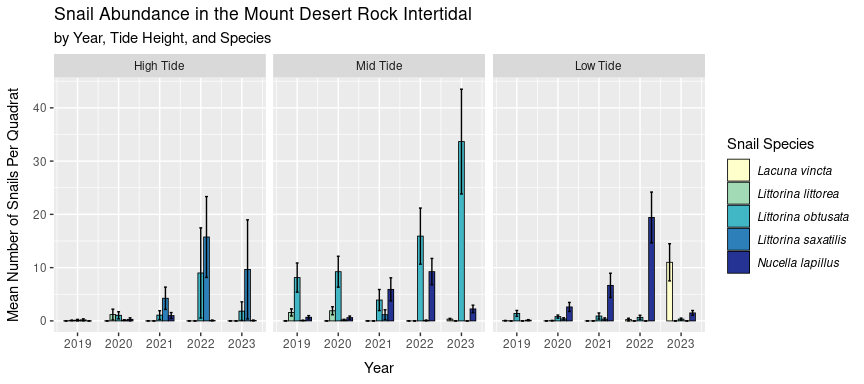
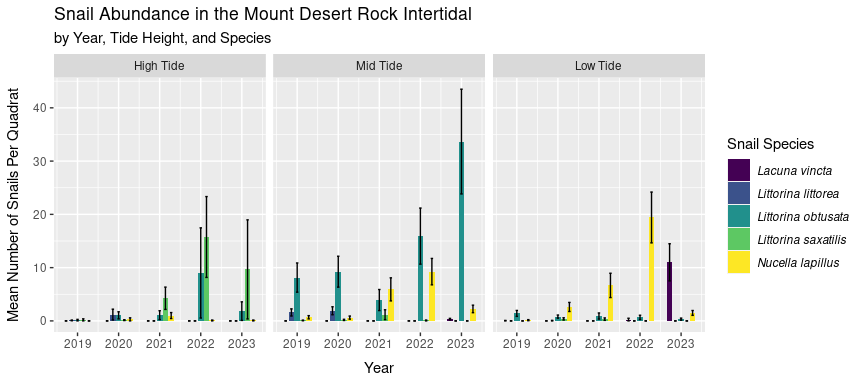
Change colors of snail graph to viridis

diff --git a/analysis/tidymdrdata.md b/analysis/tidymdrdata.md
@@ -118,304 +118,156 @@ HL00_MDR_NeCSA_2018 <- read_excel("/cloud/project/data/2018_full_NeCSA.xlsx", sh
   mutate(tide_height = "low",
          year = "2018",
          quadrat = 0)
-```
 
-    ## New names:
-    ## • `` -> `...3`
-
-``` r
 HL03_MDR_NeCSA_2018 <- read_excel("/cloud/project/data/2018_full_NeCSA.xlsx", sheet = "West HT Low", range = "D4:F49") %>%
   mutate(tide_height = "low",
          year = "2018",
          quadrat = 3)
-```
 
-    ## New names:
-    ## • `` -> `...3`
-
-``` r
 HL06_MDR_NeCSA_2018 <- read_excel("/cloud/project/data/2018_full_NeCSA.xlsx", sheet = "West HT Low", range = "G4:I49") %>%
   mutate(tide_height = "low",
          year = "2018",
          quadrat = 6)
-```
 
-    ## New names:
-    ## • `` -> `...3`
-
-``` r
 HL09_MDR_NeCSA_2018 <- read_excel("/cloud/project/data/2018_full_NeCSA.xlsx", sheet = "West HT Low", range = "J4:L49") %>%
   mutate(tide_height = "low",
          year = "2018",
          quadrat = 9)
-```
 
-    ## New names:
-    ## • `` -> `...3`
-
-``` r
 HL12_MDR_NeCSA_2018 <- read_excel("/cloud/project/data/2018_full_NeCSA.xlsx", sheet = "West HT Low", range = "M4:O49") %>%
   mutate(tide_height = "low",
          year = "2018",
          quadrat = 12)
-```
 
-    ## New names:
-    ## • `` -> `...3`
-
-``` r
 HL15_MDR_NeCSA_2018 <- read_excel("/cloud/project/data/2018_full_NeCSA.xlsx", sheet = "West HT Low", range = "P4:R49") %>%
   mutate(tide_height = "low",
          year = "2018",
          quadrat = 15)
-```
 
-    ## New names:
-    ## • `` -> `...3`
-
-``` r
 HL18_MDR_NeCSA_2018 <- read_excel("/cloud/project/data/2018_full_NeCSA.xlsx", sheet = "West HT Low", range = "S4:U49") %>%
   mutate(tide_height = "low",
          year = "2018",
          quadrat = 18)
-```
 
-    ## New names:
-    ## • `` -> `...3`
-
-``` r
 HL21_MDR_NeCSA_2018 <- read_excel("/cloud/project/data/2018_full_NeCSA.xlsx", sheet = "West HT Low", range = "V4:X49") %>%
   mutate(tide_height = "low",
          year = "2018",
          quadrat = 21)
-```
 
-    ## New names:
-    ## • `` -> `...3`
-
-``` r
 HL24_MDR_NeCSA_2018 <- read_excel("/cloud/project/data/2018_full_NeCSA.xlsx", sheet = "West HT Low", range = "Y4:AA49") %>%
   mutate(tide_height = "low",
          year = "2018",
          quadrat = 24)
-```
 
-    ## New names:
-    ## • `` -> `...3`
-
-``` r
 HL27_MDR_NeCSA_2018 <- read_excel("/cloud/project/data/2018_full_NeCSA.xlsx", sheet = "West HT Low", range = "AB4:AD49") %>%
   mutate(tide_height = "low",
          year = "2018",
          quadrat = 27)
-```
 
-    ## New names:
-    ## • `` -> `...3`
-
-``` r
 # mid quadrats
 
 HM00_MDR_NeCSA_2018 <- read_excel("/cloud/project/data/2018_full_NeCSA.xlsx", sheet = "West HT Mid", range = "A4:C49") %>%
   mutate(tide_height = "mid",
          year = "2018",
          quadrat = 0)
-```
 
-    ## New names:
-    ## • `` -> `...3`
-
-``` r
 HM03_MDR_NeCSA_2018 <- read_excel("/cloud/project/data/2018_full_NeCSA.xlsx", sheet = "West HT Mid", range = "D4:F49") %>%
   mutate(tide_height = "mid",
          year = "2018",
          quadrat = 3)
-```
 
-    ## New names:
-    ## • `` -> `...3`
-
-``` r
 HM06_MDR_NeCSA_2018 <- read_excel("/cloud/project/data/2018_full_NeCSA.xlsx", sheet = "West HT Mid", range = "G4:I49") %>%
   mutate(tide_height = "mid",
          year = "2018",
          quadrat = 6)
-```
 
-    ## New names:
-    ## • `` -> `...3`
-
-``` r
 HM09_MDR_NeCSA_2018 <- read_excel("/cloud/project/data/2018_full_NeCSA.xlsx", sheet = "West HT Mid", range = "J4:L49") %>%
   mutate(tide_height = "mid",
          year = "2018",
          quadrat = 9)
-```
 
-    ## New names:
-    ## • `` -> `...3`
-
-``` r
 HM12_MDR_NeCSA_2018 <- read_excel("/cloud/project/data/2018_full_NeCSA.xlsx", sheet = "West HT Mid", range = "M4:O49") %>%
   mutate(tide_height = "mid",
          year = "2018",
          quadrat = 12)
-```
 
-    ## New names:
-    ## • `` -> `...3`
-
-``` r
 HM15_MDR_NeCSA_2018 <- read_excel("/cloud/project/data/2018_full_NeCSA.xlsx", sheet = "West HT Mid", range = "P4:R49") %>%
   mutate(tide_height = "mid",
          year = "2018",
          quadrat = 15)
-```
 
-    ## New names:
-    ## • `` -> `...3`
-
-``` r
 HM18_MDR_NeCSA_2018 <- read_excel("/cloud/project/data/2018_full_NeCSA.xlsx", sheet = "West HT Mid", range = "S4:U49") %>%
   mutate(tide_height = "mid",
          year = "2018",
          quadrat = 18)
-```
 
-    ## New names:
-    ## • `` -> `...3`
-
-``` r
 HM21_MDR_NeCSA_2018 <- read_excel("/cloud/project/data/2018_full_NeCSA.xlsx", sheet = "West HT Mid", range = "V4:X49") %>%
   mutate(tide_height = "mid",
          year = "2018",
          quadrat = 21)
-```
 
-    ## New names:
-    ## • `` -> `...3`
-
-``` r
 HM24_MDR_NeCSA_2018 <- read_excel("/cloud/project/data/2018_full_NeCSA.xlsx", sheet = "West HT Mid", range = "Y4:AA49") %>%
   mutate(tide_height = "mid",
          year = "2018",
          quadrat = 24)
-```
 
-    ## New names:
-    ## • `` -> `...3`
-
-``` r
 HM27_MDR_NeCSA_2018 <- read_excel("/cloud/project/data/2018_full_NeCSA.xlsx", sheet = "West HT Mid", range = "AB4:AD49") %>%
   mutate(tide_height = "mid",
          year = "2018",
          quadrat = 27)
-```
 
-    ## New names:
-    ## • `` -> `...3`
-
-``` r
 # high quadrats
 
 HH00_MDR_NeCSA_2018 <- read_excel("/cloud/project/data/2018_full_NeCSA.xlsx", sheet = "West HT High", range = "A4:C49") %>%
   mutate(tide_height = "high",
          year = "2018",
          quadrat = 0)
-```
 
-    ## New names:
-    ## • `` -> `...3`
-
-``` r
 HH03_MDR_NeCSA_2018 <- read_excel("/cloud/project/data/2018_full_NeCSA.xlsx", sheet = "West HT High", range = "D4:F49") %>%
   mutate(tide_height = "high",
          year = "2018",
          quadrat = 3)
-```
 
-    ## New names:
-    ## • `` -> `...3`
-
-``` r
 HH06_MDR_NeCSA_2018 <- read_excel("/cloud/project/data/2018_full_NeCSA.xlsx", sheet = "West HT High", range = "G4:I49") %>%
   mutate(tide_height = "high",
          year = "2018",
          quadrat = 6)
-```
 
-    ## New names:
-    ## • `` -> `...3`
-
-``` r
 HH09_MDR_NeCSA_2018 <- read_excel("/cloud/project/data/2018_full_NeCSA.xlsx", sheet = "West HT High", range = "J4:L49") %>%
   mutate(tide_height = "high",
          year = "2018",
          quadrat = 9)
-```
 
-    ## New names:
-    ## • `` -> `...3`
-
-``` r
 HH12_MDR_NeCSA_2018 <- read_excel("/cloud/project/data/2018_full_NeCSA.xlsx", sheet = "West HT High", range = "M4:O49") %>%
   mutate(tide_height = "high",
          year = "2018",
          quadrat = 12)
-```
 
-    ## New names:
-    ## • `` -> `...3`
-
-``` r
 HH15_MDR_NeCSA_2018 <- read_excel("/cloud/project/data/2018_full_NeCSA.xlsx", sheet = "West HT High", range = "P4:R49") %>%
   mutate(tide_height = "high",
          year = "2018",
          quadrat = 15)
-```
 
-    ## New names:
-    ## • `` -> `...3`
-
-``` r
 HH18_MDR_NeCSA_2018 <- read_excel("/cloud/project/data/2018_full_NeCSA.xlsx", sheet = "West HT High", range = "S4:U49") %>%
   mutate(tide_height = "high",
          year = "2018",
          quadrat = 18)
-```
 
-    ## New names:
-    ## • `` -> `...3`
-
-``` r
 HH21_MDR_NeCSA_2018 <- read_excel("/cloud/project/data/2018_full_NeCSA.xlsx", sheet = "West HT High", range = "V4:X49") %>%
   mutate(tide_height = "high",
          year = "2018",
          quadrat = 21)
-```
 
-    ## New names:
-    ## • `` -> `...3`
-
-``` r
 HH24_MDR_NeCSA_2018 <- read_excel("/cloud/project/data/2018_full_NeCSA.xlsx", sheet = "West HT High", range = "Y4:AA49") %>%
   mutate(tide_height = "high",
          year = "2018",
          quadrat = 24)
-```
 
-    ## New names:
-    ## • `` -> `...3`
-
-``` r
 HH27_MDR_NeCSA_2018 <- read_excel("/cloud/project/data/2018_full_NeCSA.xlsx", sheet = "West HT High", range = "AB4:AD49") %>%
   mutate(tide_height = "high",
          year = "2018",
          quadrat = 27)
 ```
-
-    ## New names:
-    ## • `` -> `...3`
 
 ``` r
 horizontal_MDR_NeCSA_2019  <- read_excel("/cloud/project/data/2019_horizontal_MDR_NeCSA.xlsx")
